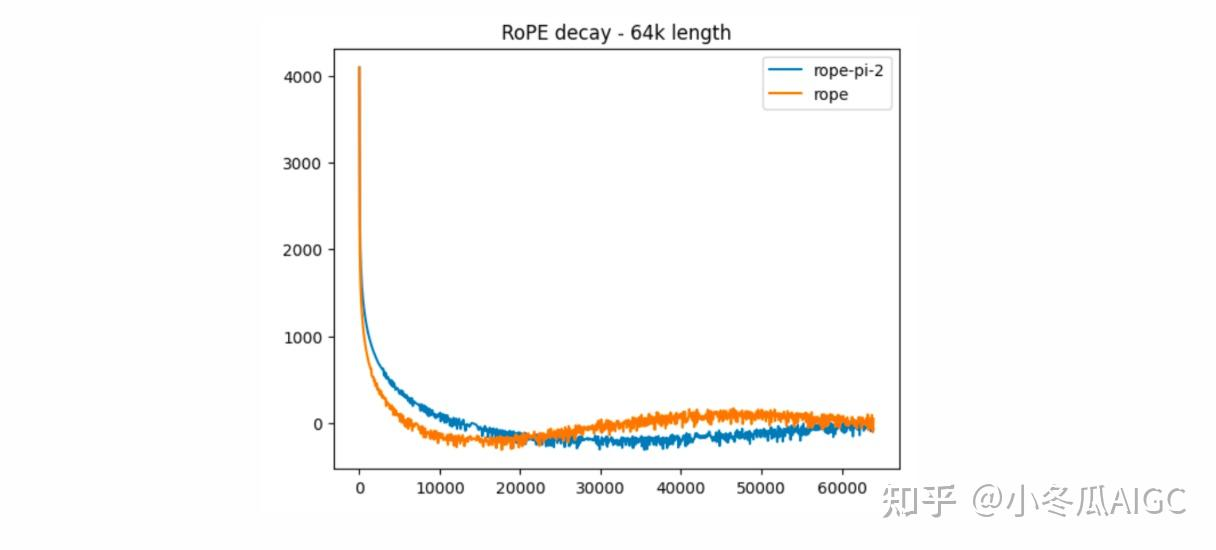
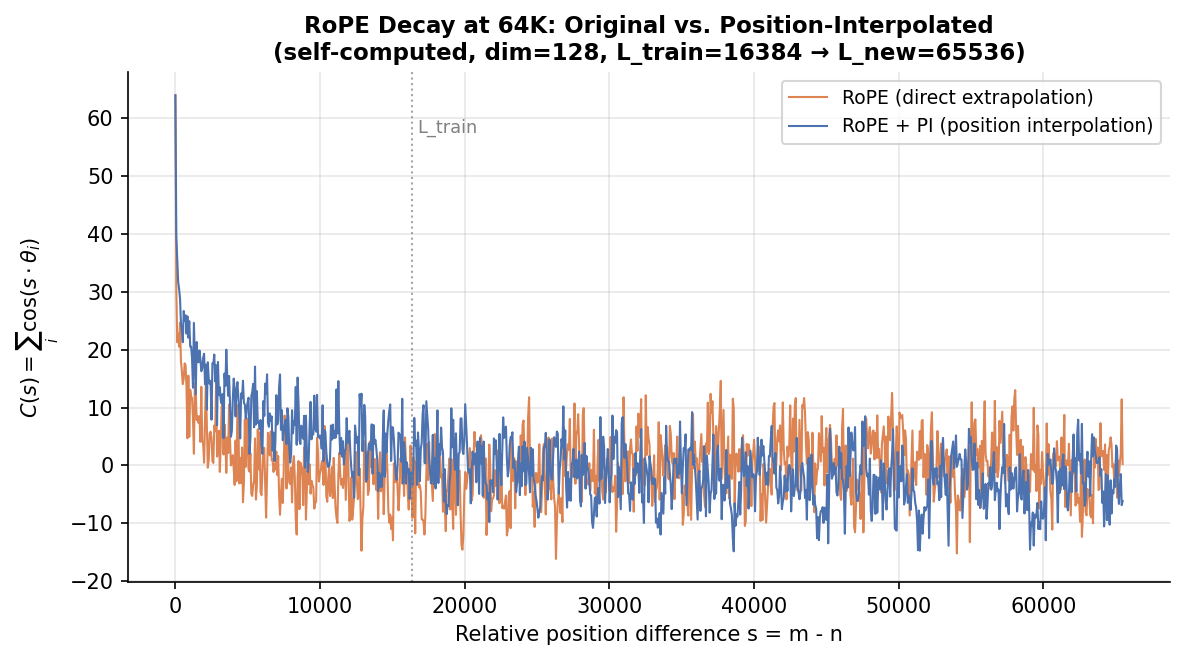
fix+refresh: 修复parse_inline粗体/斜体内嵌公式被吞成纯文本的bug(如**...$pos$...**); 2.1-2.4全部小标题补充编号(如2.1.1)与大纲快速对应; 重绘2.2/2.3中4张带水印的RoPE衰减/PI示意图为无水印高清版(用RoFormer衰减公式自行计算,非复制原图); skill文档同步补充'小标题必须带编号'+'水印图表类优先代码重绘'两条规范

diff --git a/assets/第一部分：基础架构与核心机制/2. 位置编码/2.3 RoPE 外推性及增强技术（NTK ／ PI ／ YaRN ／ ReRoPE ／ ALiBi）/gen_pi_diagram.py b/assets/第一部分：基础架构与核心机制/2. 位置编码/2.3 RoPE 外推性及增强技术（NTK ／ PI ／ YaRN ／ ReRoPE ／ ALiBi）/gen_pi_diagram.py
@@ -1,0 +1,61 @@
+"""重绘 Position Interpolation (PI) 核心直觉示意图（原图带水印，本脚本用真实
+sin 曲线 + numpy 采样点重新绘制同样的对比逻辑：正常做法在训练区间外出现"未见相位"，
+PI 把更长序列的位置整体压缩回训练区间内）。
+"""
+import matplotlib
+matplotlib.use("Agg")
+import matplotlib.pyplot as plt
+import numpy as np
+
+OUT = "LLM_Technical_Notes_Resources/assets/第一部分：基础架构与核心机制/2. 位置编码/2.3 RoPE 外推性及增强技术（NTK ／ PI ／ YaRN ／ ReRoPE ／ ALiBi）/position-interpolation-diagram.png"
+
+L_TRAIN = 2048
+L_NEW = 4096
+FREQ = 2 * np.pi / 1024  # 选一个便于可视化的周期
+
+fig, axes = plt.subplots(2, 1, figsize=(8, 6), dpi=150, sharex=True)
+
+# --- 上图：正常做法（直接外推），训练区间内为蓝点，训练区间外为红点（未见相位） ---
+ax = axes[0]
+x_full = np.arange(0, L_NEW, 40)
+y_full = np.sin(FREQ * x_full)
+x_smooth = np.linspace(0, L_NEW, 800)
+ax.plot(x_smooth, np.sin(FREQ * x_smooth), color="#4c72b0", linewidth=1.2, alpha=0.6)
+in_range = x_full <= L_TRAIN
+ax.scatter(x_full[in_range], y_full[in_range], color="#4c72b0", s=25, zorder=3, label="Pre-trained range")
+ax.scatter(x_full[~in_range], y_full[~in_range], color="#c44e52", s=25, zorder=3, label="Unseen range (extrapolation)")
+ax.axvspan(L_TRAIN, L_NEW, color="#c44e52", alpha=0.06)
+ax.axvline(L_TRAIN, color="gray", linestyle="--", linewidth=1)
+ax.set_title("Normal (direct extrapolation): unseen phase beyond training range", fontsize=10.5)
+ax.set_ylabel("RoPE value")
+ax.set_xticks([0, L_TRAIN, L_NEW])
+ax.legend(fontsize=8.5, loc="lower right")
+
+# --- 下图：Position Interpolation，把 [0, L_new) 压缩映射回 [0, L_train) ---
+ax = axes[1]
+x_new = np.arange(0, L_NEW, 40)
+x_compressed = x_new * (L_TRAIN / L_NEW)          # PI 的位置映射: pos' = pos * L_train/L_new
+y_compressed = np.sin(FREQ * x_compressed)
+x_smooth2 = np.linspace(0, L_TRAIN, 800)
+ax.plot(x_smooth2, np.sin(FREQ * x_smooth2), color="#4c72b0", linewidth=1.2, alpha=0.6)
+in_range2 = x_new <= L_TRAIN
+ax.scatter(x_compressed[in_range2], y_compressed[in_range2], color="#4c72b0", s=25, zorder=3, label="Original positions")
+ax.scatter(x_compressed[~in_range2], y_compressed[~in_range2], color="#55a868", s=25, zorder=3,
+           label="Compressed positions (originally beyond L_train)")
+ax.set_title(r"Position Interpolation: $pos' = pos \cdot L_{train}/L_{new}$, all mapped back into pre-trained range",
+             fontsize=10.5)
+ax.set_ylabel("RoPE value")
+ax.set_xlabel("Position")
+ax.set_xticks([0, L_TRAIN])
+ax.legend(fontsize=8.5, loc="lower right")
+
+for a in axes:
+    a.grid(alpha=0.3)
+    a.spines["top"].set_visible(False)
+    a.spines["right"].set_visible(False)
+
+fig.suptitle("Position Interpolation (PI): Compress Unseen Range Back into Pre-trained Range",
+             fontsize=12, fontweight="bold")
+fig.tight_layout()
+fig.savefig(OUT, bbox_inches="tight")
+print("saved", OUT)

diff --git a/assets/第一部分：基础架构与核心机制/2. 位置编码/2.2 旋转位置编码（RoPE）原理与实现/gen_rope_decay_vs_dim.py b/assets/第一部分：基础架构与核心机制/2. 位置编码/2.2 旋转位置编码（RoPE）原理与实现/gen_rope_decay_vs_dim.py
@@ -1,0 +1,48 @@
+"""重绘 RoPE 长程衰减性随嵌入维度变化的曲线（原图带水印，本脚本用 RoPE 论文
+[RoFormer](https://arxiv.org/abs/2104.09864) 的长程衰减公式重新计算，而非复制原图）。
+
+RoPE 的长程衰减性质：两个方向相同、模长为 1 的向量 q, k 在相对距离 s=m-n 处的
+点积期望值为：
+    C(s) = sum_{i=0}^{d/2-1} cos(s * theta_i),   theta_i = base^(-2i/d)
+这个和随 s 增大而振荡衰减，且维度 d 越大（可用的频率分量越多），衰减曲线越平滑、
+振荡出现得越晚 —— 这正是原图想表达的现象，这里用真实公式复现。
+"""
+import matplotlib
+matplotlib.use("Agg")
+import matplotlib.pyplot as plt
+import numpy as np
+
+OUT = "LLM_Technical_Notes_Resources/assets/第一部分：基础架构与核心机制/2. 位置编码/2.2 旋转位置编码（RoPE）原理与实现/rope-decay-vs-dimension.png"
+
+BASE = 10000.0
+
+
+def decay_curve(dim: int, max_dist: int) -> np.ndarray:
+    i = np.arange(dim // 2)
+    theta = BASE ** (-2.0 * i / dim)
+    s = np.arange(0, max_dist)
+    # C(s) = sum_i cos(s * theta_i)
+    return np.array([np.sum(np.cos(sv * theta)) for sv in s])
+
+
+max_dist = 1024
+dims = [512, 1024, 2048, 4096]
+colors = ["#4c72b0", "#dd8452", "#55a868", "#c44e52"]
+
+fig, ax = plt.subplots(figsize=(8, 5), dpi=150)
+for dim, color in zip(dims, colors):
+    curve = decay_curve(dim, max_dist)
+    ax.plot(curve, label=f"dim={dim}", color=color, linewidth=1.2)
+
+ax.set_xlabel("Relative position difference s = m - n")
+ax.set_ylabel(r"$C(s)=\sum_i \cos(s\cdot\theta_i)$  (long-term decay)")
+ax.set_title("RoPE Long-term Decay vs. Embedding Dimension\n(self-computed from RoFormer decay formula, base=10000)",
+             fontsize=11, fontweight="bold")
+ax.legend()
+ax.grid(alpha=0.3)
+ax.spines["top"].set_visible(False)
+ax.spines["right"].set_visible(False)
+
+fig.tight_layout()
+fig.savefig(OUT, bbox_inches="tight")
+print("saved", OUT)

diff --git a/assets/第一部分：基础架构与核心机制/2. 位置编码/2.3 RoPE 外推性及增强技术（NTK ／ PI ／ YaRN ／ ReRoPE ／ ALiBi）/gen_rope_decay_16k.py b/assets/第一部分：基础架构与核心机制/2. 位置编码/2.3 RoPE 外推性及增强技术（NTK ／ PI ／ YaRN ／ ReRoPE ／ ALiBi）/gen_rope_decay_16k.py
@@ -1,0 +1,48 @@
+"""重绘 RoPE 在训练长度（16K）之外出现震荡的衰减曲线（原图带水印，本脚本用
+RoFormer 长程衰减公式 C(s)=sum_i cos(s*theta_i) 复现相同现象，而非复制原图）。
+
+模拟设定：训练长度 L_train=16384，取 d=128（贴近典型注意力头维度），观察 s 从
+0 扫到约 64K 时衰减曲线的行为——理论上超出训练长度越多，累加的高频分量相位越
+容易随机对齐/抵消，数值上呈现出震荡而非单调衰减。
+"""
+import matplotlib
+matplotlib.use("Agg")
+import matplotlib.pyplot as plt
+import numpy as np
+
+OUT = "LLM_Technical_Notes_Resources/assets/第一部分：基础架构与核心机制/2. 位置编码/2.3 RoPE 外推性及增强技术（NTK ／ PI ／ YaRN ／ ReRoPE ／ ALiBi）/rope-decay-16k-oscillation.png"
+
+BASE = 10000.0
+DIM = 128
+L_TRAIN = 16384
+
+
+def decay_curve(dim: int, s: np.ndarray, base: float = BASE) -> np.ndarray:
+    i = np.arange(dim // 2)
+    theta = base ** (-2.0 * i / dim)
+    return np.array([np.sum(np.cos(sv * theta)) for sv in s])
+
+
+s = np.arange(0, 65536, 64)
+curve = decay_curve(DIM, s)
+
+fig, ax = plt.subplots(figsize=(8, 4.5), dpi=150)
+ax.plot(s, curve, color="#4c72b0", linewidth=1.0, label="RoPE decay C(s)")
+ax.axvline(L_TRAIN, color="#c44e52", linestyle="--", linewidth=1.3,
+           label=f"Training length L_train={L_TRAIN}")
+ax.axvspan(L_TRAIN, s.max(), color="#c44e52", alpha=0.06)
+ax.text(L_TRAIN * 1.05, curve.max() * 0.85, "Unseen range\n(direct extrapolation)",
+        color="#c44e52", fontsize=9)
+
+ax.set_xlabel("Relative position difference s = m - n")
+ax.set_ylabel(r"$C(s)=\sum_i \cos(s\cdot\theta_i)$")
+ax.set_title("RoPE Decay Curve: Smooth Within Training Length, Oscillates Beyond It\n(self-computed, dim=128, base=10000)",
+             fontsize=11, fontweight="bold")
+ax.legend(fontsize=9)
+ax.grid(alpha=0.3)
+ax.spines["top"].set_visible(False)
+ax.spines["right"].set_visible(False)
+
+fig.tight_layout()
+fig.savefig(OUT, bbox_inches="tight")
+print("saved", OUT)

diff --git a/assets/第一部分：基础架构与核心机制/2. 位置编码/2.3 RoPE 外推性及增强技术（NTK ／ PI ／ YaRN ／ ReRoPE ／ ALiBi）/gen_rope_decay_64k_pi.py b/assets/第一部分：基础架构与核心机制/2. 位置编码/2.3 RoPE 外推性及增强技术（NTK ／ PI ／ YaRN ／ ReRoPE ／ ALiBi）/gen_rope_decay_64k_pi.py
@@ -1,0 +1,45 @@
+"""重绘 RoPE 原始版 vs 做了 Position Interpolation (PI) 后的衰减对比（原图带水印，
+本脚本用 RoFormer 衰减公式计算，PI 版本等价于把位置 pos 替换为 pos * L_train/L_new
+再代入同样的衰减公式）。
+"""
+import matplotlib
+matplotlib.use("Agg")
+import matplotlib.pyplot as plt
+import numpy as np
+
+OUT = "LLM_Technical_Notes_Resources/assets/第一部分：基础架构与核心机制/2. 位置编码/2.3 RoPE 外推性及增强技术（NTK ／ PI ／ YaRN ／ ReRoPE ／ ALiBi）/rope-decay-64k-pi-vs-base.png"
+
+BASE = 10000.0
+DIM = 128
+L_TRAIN = 16384
+L_NEW = 65536
+
+
+def decay_curve(dim: int, s: np.ndarray, base: float = BASE) -> np.ndarray:
+    i = np.arange(dim // 2)
+    theta = base ** (-2.0 * i / dim)
+    return np.array([np.sum(np.cos(sv * theta)) for sv in s])
+
+
+s = np.arange(0, L_NEW, 64)
+curve_base = decay_curve(DIM, s)                                  # 原始 RoPE，直接外推
+curve_pi = decay_curve(DIM, s * (L_TRAIN / L_NEW))                 # PI：位置先压缩再代入
+
+fig, ax = plt.subplots(figsize=(8, 4.5), dpi=150)
+ax.plot(s, curve_base, color="#dd8452", linewidth=1.0, label="RoPE (direct extrapolation)")
+ax.plot(s, curve_pi, color="#4c72b0", linewidth=1.0, label="RoPE + PI (position interpolation)")
+ax.axvline(L_TRAIN, color="gray", linestyle=":", linewidth=1, alpha=0.7)
+ax.text(L_TRAIN * 1.02, curve_base.max() * 0.9, "L_train", color="gray", fontsize=8.5)
+
+ax.set_xlabel("Relative position difference s = m - n")
+ax.set_ylabel(r"$C(s)=\sum_i \cos(s\cdot\theta_i)$")
+ax.set_title("RoPE Decay at 64K: Original vs. Position-Interpolated\n(self-computed, dim=128, L_train=16384 → L_new=65536)",
+             fontsize=11, fontweight="bold")
+ax.legend(fontsize=9)
+ax.grid(alpha=0.3)
+ax.spines["top"].set_visible(False)
+ax.spines["right"].set_visible(False)
+
+fig.tight_layout()
+fig.savefig(OUT, bbox_inches="tight")
+print("saved", OUT)